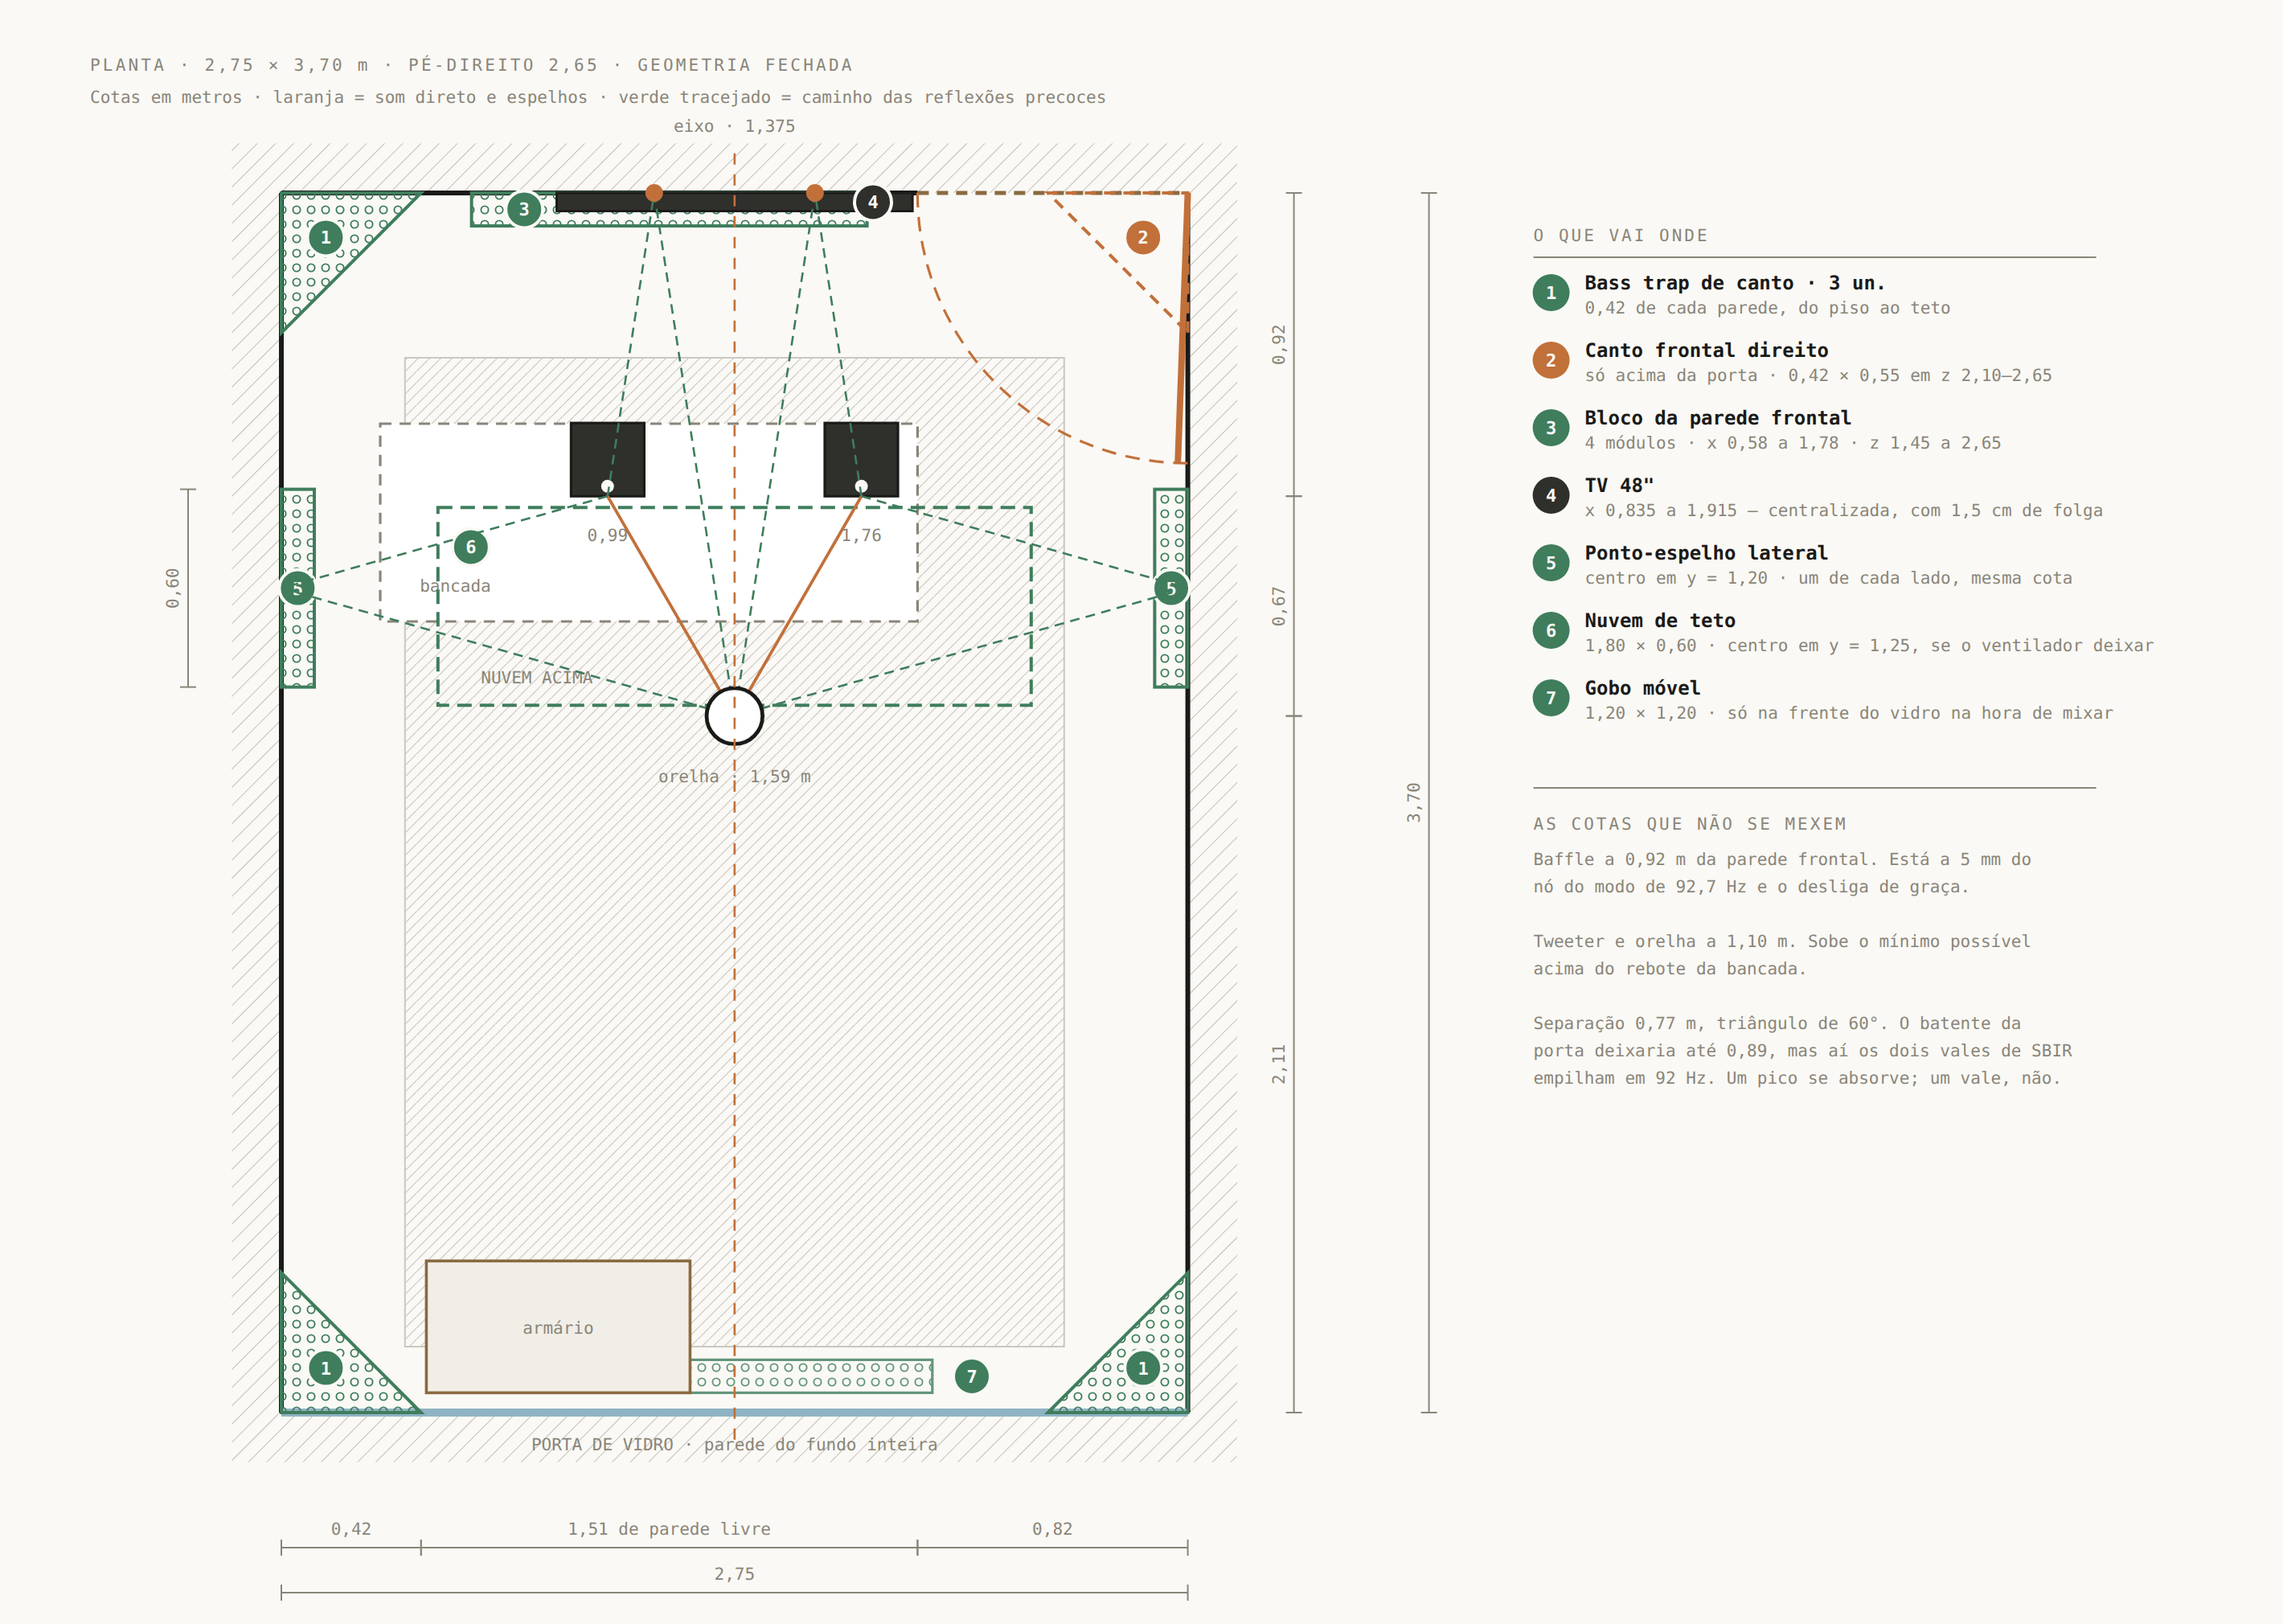
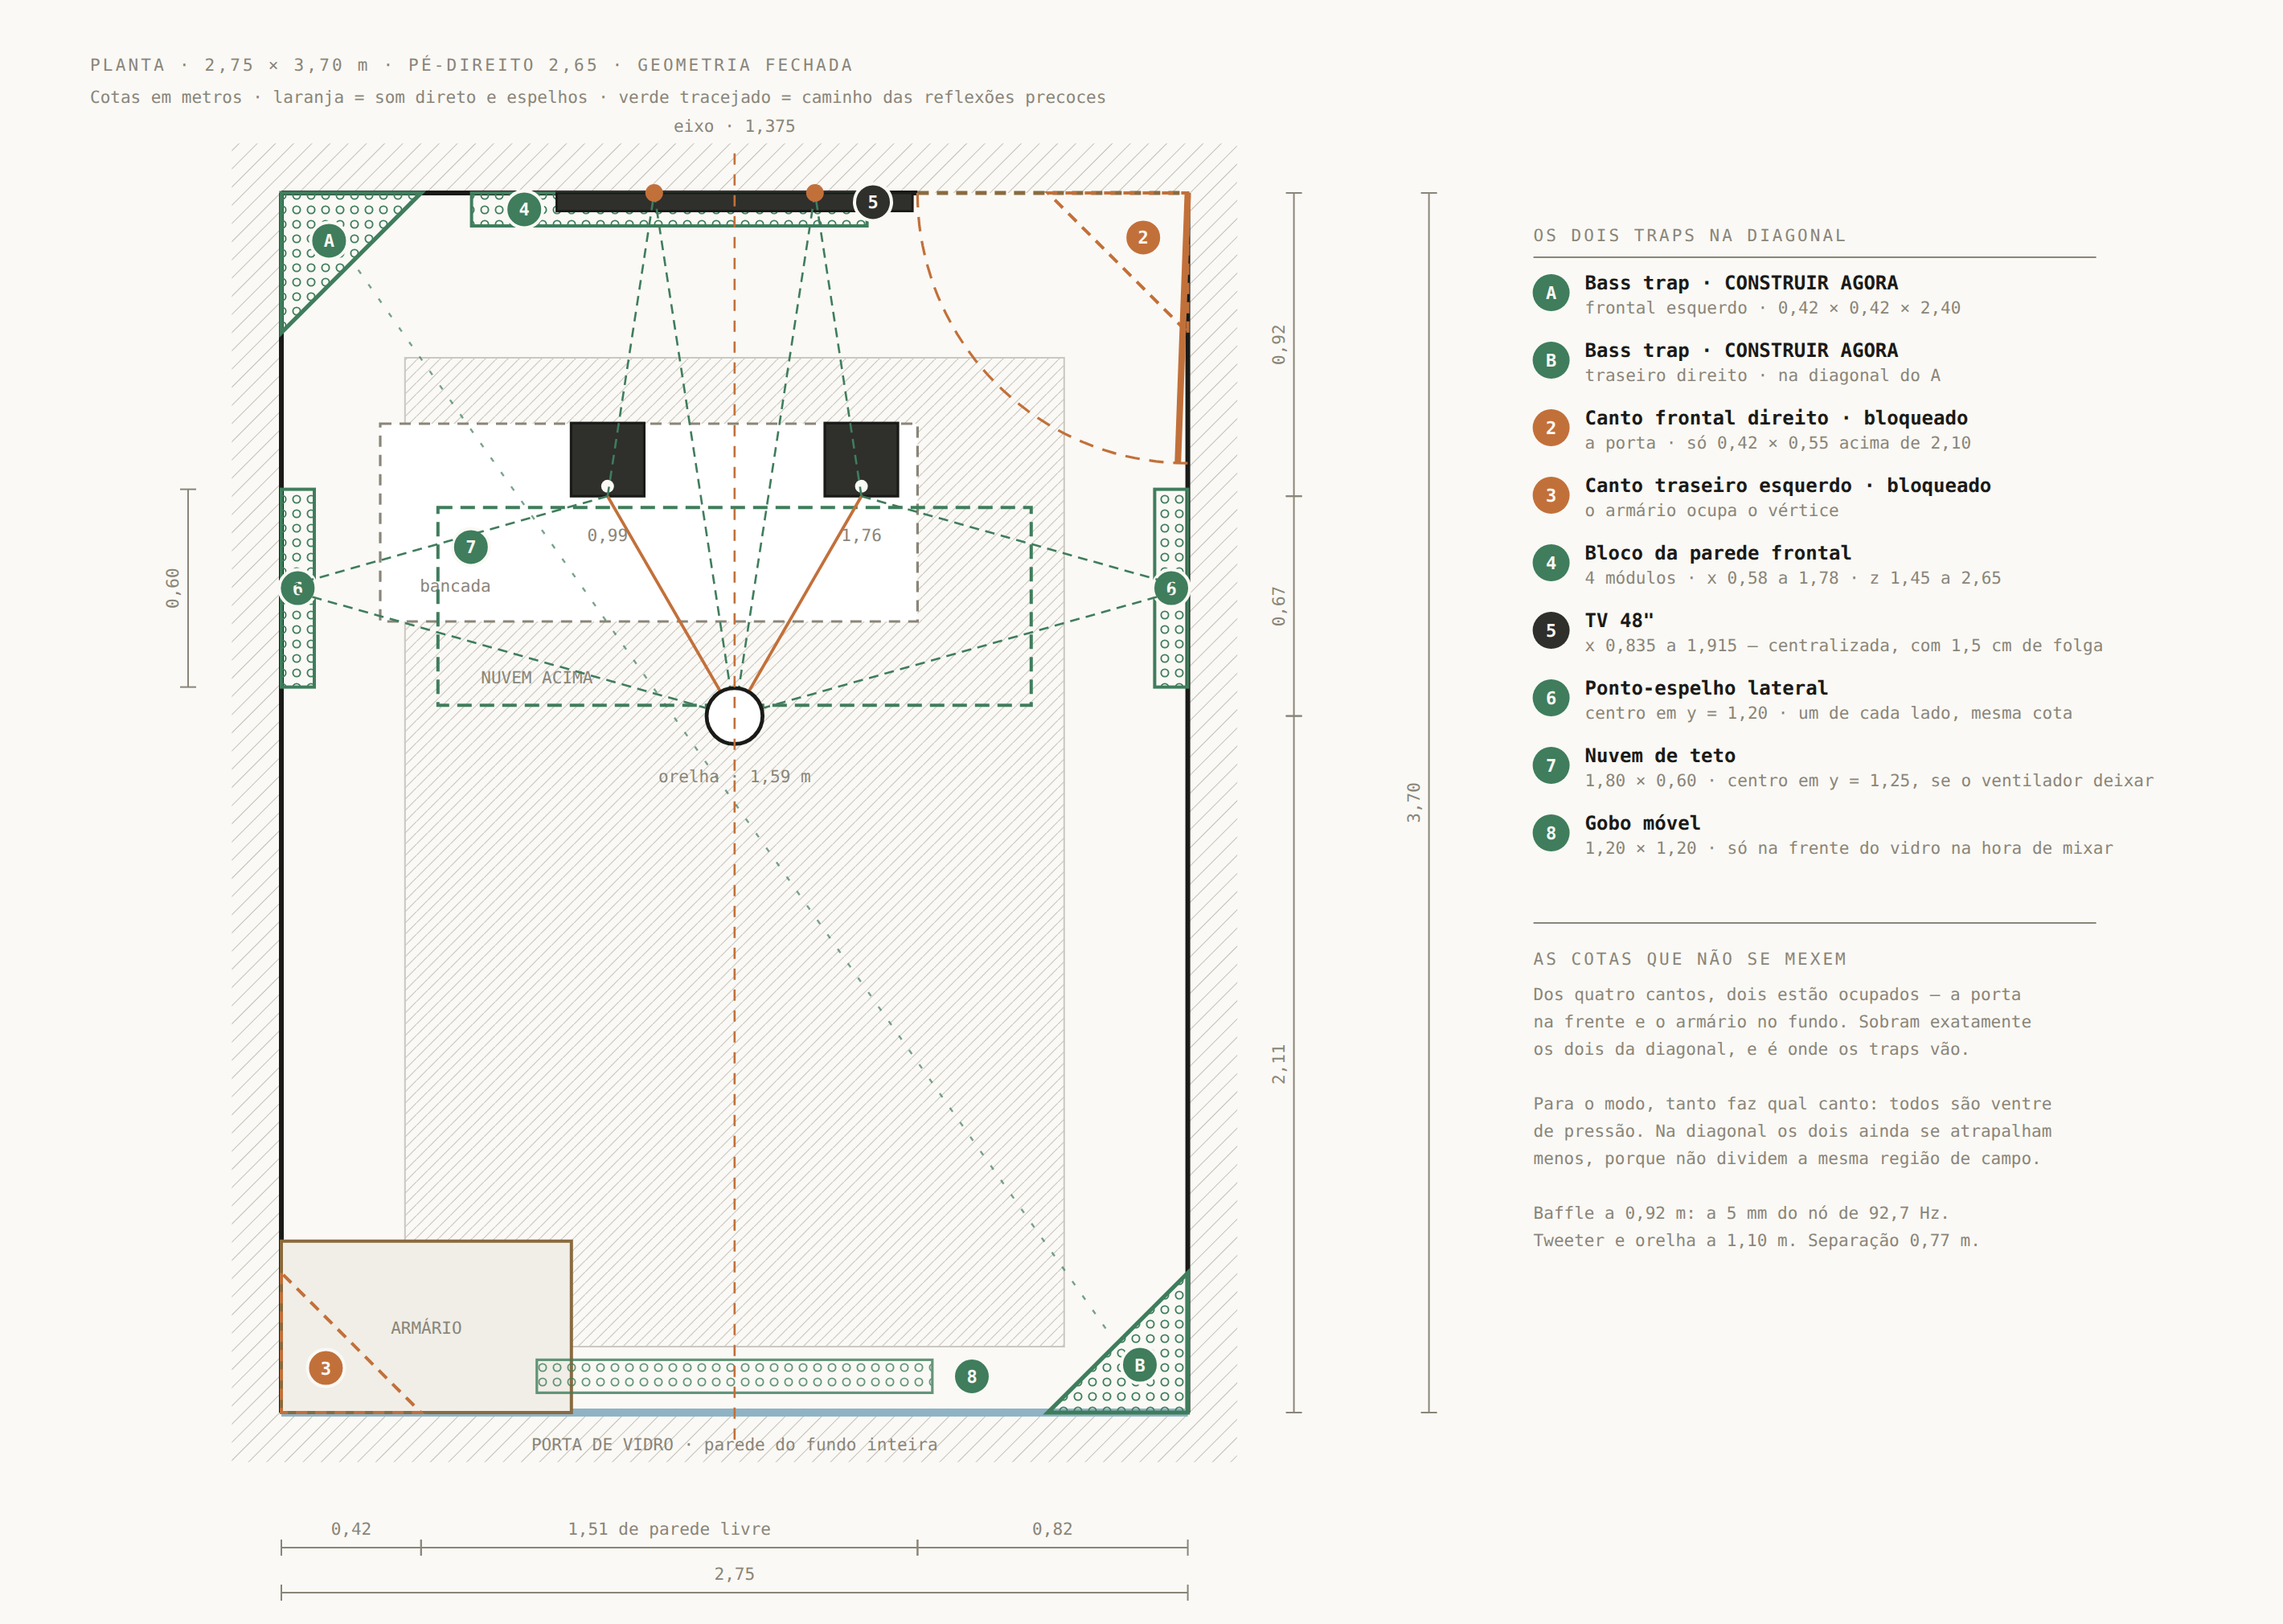
home-studio: traps na diagonal, armario ocupa o canto traseiro esquerdo
Dos quatro cantos so dois aceitam trap de altura cheia: a porta bloqueia o
frontal direito abaixo de 2,10 e o armario ocupa o traseiro esquerdo.
Sobram o frontal esquerdo e o traseiro direito, na diagonal -- que tambem
e melhor porque os dois nao dividem a mesma regiao de campo.

Claude-Session: https://claude.ai/code/session_0147x86ewCztaogts4MPfXdV

diff --git a/home-studio/planta-final.py b/home-studio/planta-final.py
@@ -62,18 +62,20 @@ arcpl(W,0,DW,math.pi,math.pi/2,"var(--flag)"); line((W,0),(W-0.03,DW),"var(--fla
 line((0,L),(W,L),"var(--glass)","5")
 txt(W/2,L+0.115,"PORTA DE VIDRO &#183; parede do fundo inteira","s-dimt",fill="var(--glass)")
 
+# armario, antes dos cantos
+rect(0,0.88,L-0.52,L,"var(--sunk)","var(--wood)","2"); txt(0.44,L-0.24,"ARM&#193;RIO","s-dimt",fill="var(--wood)")
 # bass traps
-poly([(0,TRAP),(0,0),(TRAP,0)],"url(#wl)","var(--ray)","2"); tag(1,0.135,0.135,"var(--ray)")
+poly([(0,TRAP),(0,0),(TRAP,0)],"url(#wl)","var(--ray)","2.6"); tag("A",0.145,0.145,"var(--ray)")
 poly([(W,TRAP),(W,0),(W-TRAP,0)],"none","var(--flag)","2",' stroke-dasharray="7 5"'); tag(2,W-0.135,0.135,"var(--flag)")
-poly([(0,L-TRAP),(0,L),(TRAP,L)],"url(#wl)","var(--ray)","2"); tag(1,0.135,L-0.135,"var(--ray)")
-poly([(W,L-TRAP),(W,L),(W-TRAP,L)],"url(#wl)","var(--ray)","2"); tag(1,W-0.135,L-0.135,"var(--ray)")
+poly([(0,L-TRAP),(0,L),(TRAP,L)],"none","var(--flag)","2",' stroke-dasharray="7 5"'); tag(3,0.135,L-0.135,"var(--flag)")
+poly([(W,L-TRAP),(W,L),(W-TRAP,L)],"url(#wl)","var(--ray)","2.6"); tag("B",W-0.145,L-0.145,"var(--ray)")
 # bloco frontal
-rect(BLK0,BLK1,0,0.10,"url(#wl)","var(--ray)","2"); tag(3,BLK0+0.16,0.05,"var(--ray)")
+rect(BLK0,BLK1,0,0.10,"url(#wl)","var(--ray)","2"); tag(4,BLK0+0.16,0.05,"var(--ray)")
 # TV
-rect(W/2-TVW/2,W/2+TVW/2,0,0.055,"var(--felt)","var(--ink)","1.4"); tag(4,W/2+0.42,0.028,"var(--felt)")
+rect(W/2-TVW/2,W/2+TVW/2,0,0.055,"var(--felt)","var(--ink)","1.4"); tag(5,W/2+0.42,0.028,"var(--felt)")
 # modulos de ponto-espelho
-rect(0,0.10,MIRS-0.30,MIRS+0.30,"url(#wl)","var(--ray)","2"); tag(5,0.05,MIRS,"var(--ray)")
-rect(W-0.10,W,MIRS-0.30,MIRS+0.30,"url(#wl)","var(--ray)","2"); tag(5,W-0.05,MIRS,"var(--ray)")
+rect(0,0.10,MIRS-0.30,MIRS+0.30,"url(#wl)","var(--ray)","2"); tag(6,0.05,MIRS,"var(--ray)")
+rect(W-0.10,W,MIRS-0.30,MIRS+0.30,"url(#wl)","var(--ray)","2"); tag(6,W-0.05,MIRS,"var(--ray)")
 # bancada
 rect(0.30,FX,0.70,1.30,"var(--surface)","var(--mute)","1.6",' stroke-dasharray="7 5"')
 txt(0.42,1.21,"bancada","s-dimt",anch="start")
@@ -83,11 +85,11 @@ for cx in (ML,MR):
 # nuvem, por cima da bancada
 rect(W/2-0.90,W/2+0.90,MIRC-0.30,MIRC+0.30,"none","var(--ray)","2",' stroke-dasharray="9 5"')
 txt(W/2-0.90+0.30,MIRC+0.235,"NUVEM ACIMA","s-dimt",fill="var(--ray)")
-tag(6,W/2-0.90+0.10,MIRC-0.18,"var(--ray)")
+tag(7,W/2-0.90+0.10,MIRC-0.18,"var(--ray)")
 # gobo
-rect(W/2-0.60,W/2+0.60,L-0.16,L-0.06,"url(#wl)","var(--ray)","1.6",' opacity=".8"'); tag(7,W/2+0.72,L-0.11,"var(--ray)")
+rect(W/2-0.60,W/2+0.60,L-0.16,L-0.06,"url(#wl)","var(--ray)","1.6",' opacity=".8"'); tag(8,W/2+0.72,L-0.11,"var(--ray)")
 # armario
-rect(0.44,1.24,L-0.46,L-0.06,"var(--sunk)","var(--wood)","1.8"); txt(0.84,L-0.24,"arm&#225;rio","s-dimt",fill="var(--wood)")
+line((TRAP*0.55,TRAP*0.55),(W-TRAP*0.55,L-TRAP*0.55),"var(--ray)","1.2",' stroke-dasharray="3 8" opacity=".7"')
 # ouvinte + raios
 for cx,mx in ((ML,1.131),(MR,W-1.131)):
     line((cx,BAF),(W/2,EAR),"var(--flag)","1.9")
@@ -111,14 +113,16 @@ txt(56,44,"PLANTA &#183; 2,75 &#215; 3,70 m &#183; P&#201;-DIREITO 2,65 &#183; G
 txt(56,64,"Cotas em metros &#183; laranja = som direto e espelhos &#183; verde tracejado = caminho das reflex&#245;es precoces","s-dimt","start",None,"",px=True)
 
 LX=X(W)+215; yy=150
-items=[("1","var(--ray)","Bass trap de canto &#183; 3 un.","0,42 de cada parede, do piso ao teto"),
- ("2","var(--flag)","Canto frontal direito","s&#243; acima da porta &#183; 0,42 &#215; 0,55 em z 2,10&#8211;2,65"),
- ("3","var(--ray)","Bloco da parede frontal","4 m&#243;dulos &#183; x 0,58 a 1,78 &#183; z 1,45 a 2,65"),
- ("4","var(--felt)","TV 48\"","x 0,835 a 1,915 &#8212; centralizada, com 1,5 cm de folga"),
- ("5","var(--ray)","Ponto-espelho lateral","centro em y = 1,20 &#183; um de cada lado, mesma cota"),
- ("6","var(--ray)","Nuvem de teto","1,80 &#215; 0,60 &#183; centro em y = 1,25, se o ventilador deixar"),
- ("7","var(--ray)","Gobo m&#243;vel","1,20 &#215; 1,20 &#183; s&#243; na frente do vidro na hora de mixar")]
-txt(LX,yy,"O QUE VAI ONDE","s-dimt","start","var(--ink)",' letter-spacing="1.5"',px=True); yy+=10
+items=[("A","var(--ray)","Bass trap &#183; CONSTRUIR AGORA","frontal esquerdo &#183; 0,42 &#215; 0,42 &#215; 2,40"),
+ ("B","var(--ray)","Bass trap &#183; CONSTRUIR AGORA","traseiro direito &#183; na diagonal do A"),
+ ("2","var(--flag)","Canto frontal direito &#183; bloqueado","a porta &#183; s&#243; 0,42 &#215; 0,55 acima de 2,10"),
+ ("3","var(--flag)","Canto traseiro esquerdo &#183; bloqueado","o arm&#225;rio ocupa o v&#233;rtice"),
+ ("4","var(--ray)","Bloco da parede frontal","4 m&#243;dulos &#183; x 0,58 a 1,78 &#183; z 1,45 a 2,65"),
+ ("5","var(--felt)","TV 48\"","x 0,835 a 1,915 &#8212; centralizada, com 1,5 cm de folga"),
+ ("6","var(--ray)","Ponto-espelho lateral","centro em y = 1,20 &#183; um de cada lado, mesma cota"),
+ ("7","var(--ray)","Nuvem de teto","1,80 &#215; 0,60 &#183; centro em y = 1,25, se o ventilador deixar"),
+ ("8","var(--ray)","Gobo m&#243;vel","1,20 &#215; 1,20 &#183; s&#243; na frente do vidro na hora de mixar")]
+txt(LX,yy,"OS DOIS TRAPS NA DIAGONAL","s-dimt","start","var(--ink)",' letter-spacing="1.5"',px=True); yy+=10
 a('<line class="s-dim" x1="%.1f" y1="%.1f" x2="%.1f" y2="%.1f"/>'%(LX,yy,LX+350,yy)); yy+=26
 for n,c_,t1,t2 in items:
     a('<circle cx="%.1f" cy="%.1f" r="11.5" fill="%s"/>'%(LX+11,yy-4,c_))
@@ -127,9 +131,9 @@ for n,c_,t1,t2 in items:
     yy+=42
 yy+=10; a('<line class="s-dim" x1="%.1f" y1="%.1f" x2="%.1f" y2="%.1f"/>'%(LX,yy,LX+350,yy)); yy+=26
 txt(LX,yy,"AS COTAS QUE N&#195;O SE MEXEM","s-dimt","start","var(--flag)",' letter-spacing="1.5"',px=True); yy+=22
-for l in ["Baffle a 0,92 m da parede frontal. Est&#225; a 5 mm do","n&#243; do modo de 92,7 Hz e o desliga de gra&#231;a.","",
-          "Tweeter e orelha a 1,10 m. Sobe o m&#237;nimo poss&#237;vel","acima do rebote da bancada.","",
-          "Separa&#231;a&#771;o 0,77 m, tri&#226;ngulo de 60&#176;. O batente da","porta deixaria at&#233; 0,89, mas a&#237; os dois vales de SBIR","empilham em 92 Hz. Um pico se absorve; um vale, n&#227;o."]:
+for l in ["Dos quatro cantos, dois est&#227;o ocupados &#8212; a porta","na frente e o arm&#225;rio no fundo. Sobram exatamente","os dois da diagonal, e &#233; onde os traps v&#227;o.","",
+          "Para o modo, tanto faz qual canto: todos s&#227;o ventre","de press&#227;o. Na diagonal os dois ainda se atrapalham","menos, porque n&#227;o dividem a mesma regi&#227;o de campo.","",
+          "Baffle a 0,92 m: a 5 mm do n&#243; de 92,7 Hz.","Tweeter e orelha a 1,10 m. Separa&#231;&#227;o 0,77 m."]:
     txt(LX,yy,l,"s-dimt","start",None,"",px=True); yy+=17
 open("_planta-final.svg","w").write('<svg xmlns="http://www.w3.org/2000/svg" viewBox="0 0 1420 1010">\n'+"\n".join(o)+'\n</svg>')
 print("ok")

diff --git a/home-studio/trap-pet.py b/home-studio/trap-pet.py
@@ -123,10 +123,10 @@ for f,al,sab in (("125 Hz","0,30","0,9 sabins"),("250 Hz","0,55","1,6 sabins"),
                  ("500 Hz","0,80","2,3 sabins"),("1 kHz","0,85","2,4 sabins")):
     row(f+" &#183; alfa "+al,sab)
 yy+=8
-for l in ["A meta da sala inteira &#233; 16 sabins.","","A 7 kg/m&#179; a manta &#233; pouco resistiva: rende","muito mais no m&#233;dio que no grave. Estes dois","traps s&#227;o um bom come&#231;o e v&#227;o secar o fundo","de vidro &#8212; mas o pico de 127 Hz vai precisar","de mais material ou de manta mais densa."]:
+for l in ["A meta da sala inteira &#233; 16 sabins.","","A 7 kg/m&#179; a manta &#233; pouco resistiva: rende","muito mais no m&#233;dio que no grave. Os dois traps","s&#227;o um bom come&#231;o &#8212; mas o pico de 127 Hz vai","precisar de mais material ou de manta densa.","","Na diagonal porque os outros dois cantos est&#227;o","ocupados: a porta na frente, o arm&#225;rio no fundo."]:
     txt(LX,yy,l,"s-dimt","start"); yy+=15
 
-txt(110,54,"BASS TRAP DE CANTO &#183; L&#195; DE PET 7 kg/m&#179; &#183; DOIS CANTOS TRASEIROS","s-dimt","start","var(--ink)",' letter-spacing="1.6"')
+txt(110,54,"BASS TRAP DE CANTO &#183; L&#195; DE PET 7 kg/m&#179; &#183; FRONTAL ESQUERDO E TRASEIRO DIREITO","s-dimt","start","var(--ink)",' letter-spacing="1.6"')
 txt(110,74,"Cotas em metros &#183; face a 0,424 de cada parede, igual &#224; planta &#183; 20 cm de manta e 10 cm de ar no v&#233;rtice","s-dimt","start")
 open("_trap-pet.svg","w").write('<svg xmlns="http://www.w3.org/2000/svg" viewBox="0 0 1600 900">\n'+"\n".join(o)+'\n</svg>')
 print("ok")
